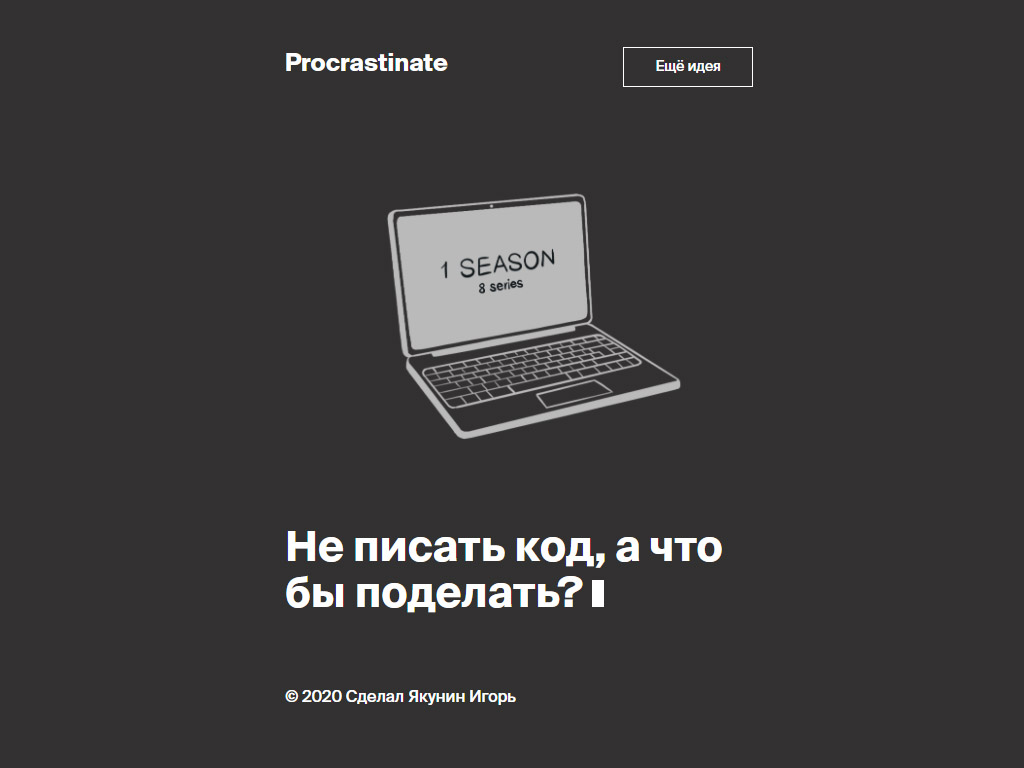
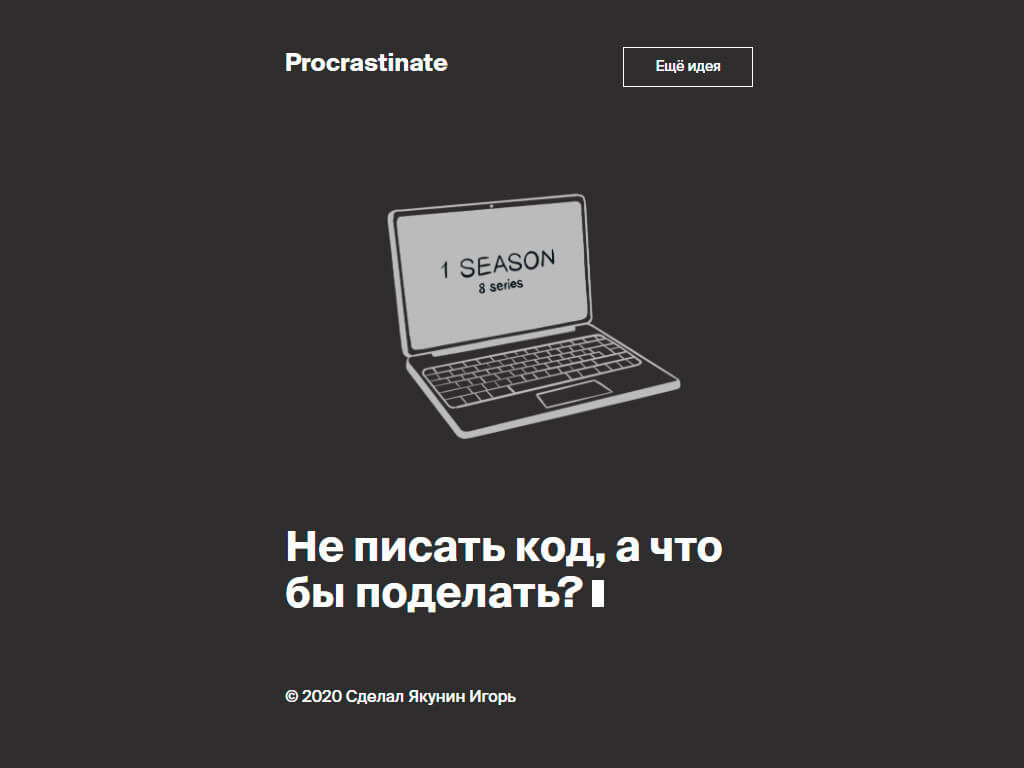
добавлены сжатые изображения

diff --git a/index.html b/index.html
@@ -1,5 +1,5 @@
 <!DOCTYPE html>
-<html lang="en" class="page">
+<html lang="ru" class="page">
 
 <head>
   <meta charset="UTF-8" />
@@ -17,7 +17,7 @@
   <main class="main">
     <div class="projects">
 
-      <!-- Блок учебных проектов -->
+      <!--!! Блок учебных проектов -->
       <section id="learning-project">
         <h2 class="projects__title">Учебные проекты</h2>
         <div class="projects__wrapper">
@@ -25,7 +25,7 @@
           <div class="project__content">
             <h3 class="project__title">Новости (ReactJS / Backend)</h3>
             <div class="project__viewport">
-              <img src="./images/News.jpg" alt="img" class="project__image" />
+              <img src="./images/News.jpg" alt="скрин сайта" class="project__image" />
               <div class="project__links">
                 <a class="project__link project__link_code"
                   href="https://github.com/Nexxer/news-explorer-frontend">Код</a>
@@ -53,7 +53,7 @@
           <div class="project__content">
             <h3 class="project__title">Место (ReactJS / Backend)</h3>
             <div class="project__viewport">
-              <img src="./images/MstoReact.jpg" alt="img" class="project__image" />
+              <img src="./images/MstoReact.jpg" alt="скрин сайта" class="project__image" />
               <div class="project__links">
                 <a class="project__link project__link_code"
                   href="https://github.com/Nexxer/react-mesto-api-full">Код</a>
@@ -81,7 +81,7 @@
           <div class="project__content">
             <h3 class="project__title">Место</h3>
             <div class="project__viewport">
-              <img src="./images/Mesto.jpg" alt="img" class="project__image" />
+              <img src="./images/Mesto.jpg" alt="скрин сайта" class="project__image" />
               <div class="project__links">
                 <a class="project__link project__link_code" href="https://github.com/Nexxer/mesto">Код</a>
                 <a class="project__link project__link_link" href="https://nexxer.github.io/mesto/">Сайт</a>
@@ -102,7 +102,7 @@
           <div class="project__content">
             <h3 class="project__title">Путешествие по России</h3>
             <div class="project__viewport">
-              <img src="./images/Travel.jpg" alt="img" class="project__image" />
+              <img src="./images/Travel.jpg" alt="скрин сайта" class="project__image" />
               <div class="project__links">
                 <a class="project__link project__link_code" href="https://github.com/Nexxer/russian-travel">Код</a>
                 <a class="project__link project__link_link" href="https://nexxer.github.io/russian-travel/">Сайт</a>
@@ -122,7 +122,7 @@
           <div class="project__content">
             <h3 class="project__title">Как учиться</h3>
             <div class="project__viewport">
-              <img src="./images/HowToLearn.jpg" alt="img" class="project__image" />
+              <img src="./images/HowToLearn.jpg" alt="скрин сайта" class="project__image" />
               <div class="project__links">
                 <a class="project__link project__link_code" href="https://github.com/Nexxer/how-to-learn">Код</a>
                 <a class="project__link project__link_link" href="https://nexxer.github.io/how-to-learn/">Сайт</a>
@@ -139,7 +139,7 @@
           <div class="project__content">
             <h3 class="project__title">Первый сайт</h3>
             <div class="project__viewport">
-              <img src="./images/FirstSite.jpg" alt="img" class="project__image" />
+              <img src="./images/FirstSite.jpg" alt="скрин сайта" class="project__image" />
               <div class="project__links">
                 <a class="project__link project__link_code" href="https://github.com/Nexxer/FirstSite">Код</a>
                 <a class="project__link project__link_link" href="https://nexxer.github.io/FirstSite/">Сайт</a>
@@ -155,7 +155,7 @@
           <div class="project__content">
             <h3 class="project__title">Первый сайт c JS </h3>
             <div class="project__viewport">
-              <img src="./images/FirstJS.jpg" alt="img" class="project__image" />
+              <img src="./images/FirstJS.jpg" alt="скрин сайта" class="project__image" />
               <div class="project__links">
                 <a class="project__link project__link_code" href="https://github.com/Nexxer/First-JS">Код</a>
                 <a class="project__link project__link_link" href="https://nexxer.github.io/First-JS/">Сайт</a>
@@ -166,32 +166,48 @@
               <span class="project__info_bold">Получены навыки:</span> HTML, CSS, JS
             </p>
           </div>
-
+        </div>
       </section>
-      <!-- pet-project -->
+
+      <!--!! pet-project -->
       <section id="pet-project">
         <h2 class="projects__title">Pet-проекты</h2>
         <div class="projects__wrapper">
+
           <!-- #1 -->
+          <div class="project__content">
+            <h3 class="project__title">Генератор комикса</h3>
+            <div class="project__viewport">
+              <img src="./images/FirstSite.jpg" alt="скрин сайта" class="project__image" />
+              <div class="project__links">
+                <a class="project__link project__link_code" href="https://github.com/Nexxer/FirstSite">Код</a>
+                <a class="project__link project__link_link" href="https://nexxer.github.io/FirstSite/">Сайт</a>
+              </div>
+            </div>
+            <p class="project__info">Первые пробы работы в HTML верстке</p>
+            <p class="project__info">
+              <span class="project__info_bold">Получены навыки:</span> HTML, CSS
+            </p>
+          </div>
+        </div>
+
 
       </section>
-      <!-- Блок тестовых заданий -->
+      <!--!! Блок тестовых заданий -->
       <section id="tests">
         <h2 class="projects__title">Тестовые задания</h2>
         <div class="projects__wrapper">
           <!-- #1 -->
-
+        </div>
       </section>
 
-      </section>
-      <!-- Блок обо мне -->
+      <!--!! Блок обо мне -->
       <section id="about-me">
         <h2 class="projects__title">Обо мне</h2>
         <div class="projects__wrapper">
           <!-- #1 -->
-
+        </div>
       </section>
-    </div>
     </div>
   </main>
 

diff --git a/style.css b/style.css
@@ -79,7 +79,7 @@
 
 .projects__wrapper {
   display: grid;
-  grid-template-columns: repeat(auto-fit, minmax(365px, 1fr));
+  grid-template-columns: repeat(auto-fit, minmax(350px, 1fr));
   grid-gap: 16px;
 }
 
